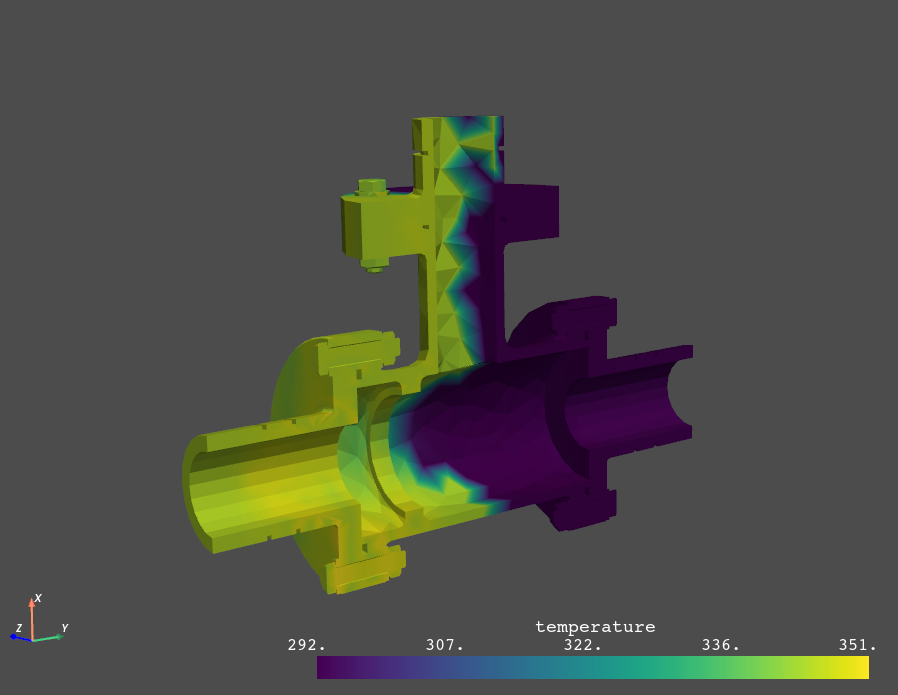
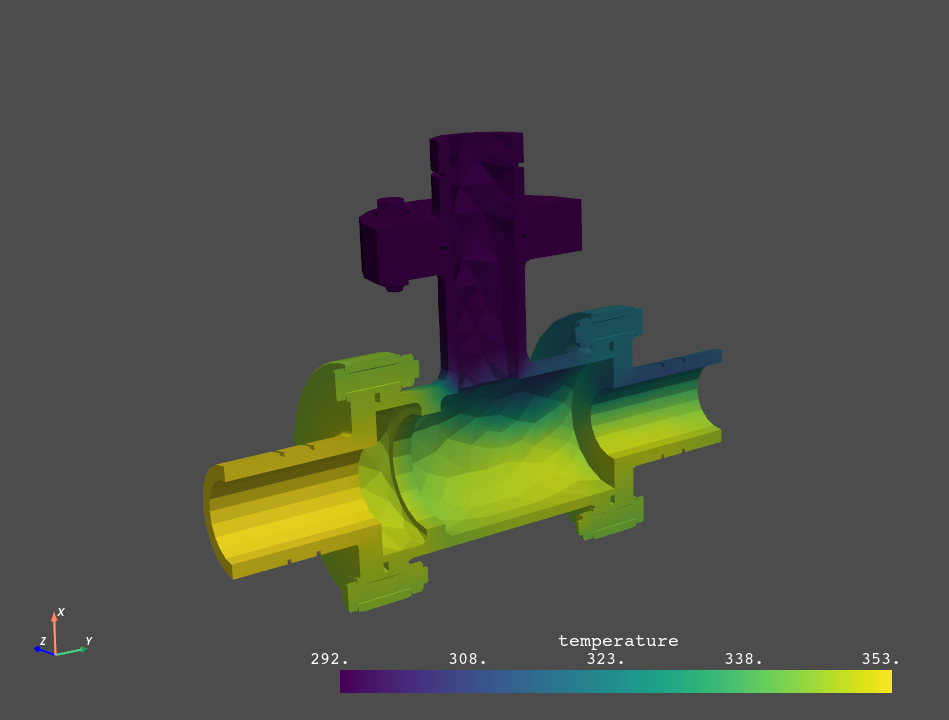
Completing TBROM examples and updating doc

Changed region(s): [[0.1871, 0.1511, 0.7795, 0.8763], [0.3118, 0.8763, 0.9666, 0.9971], [0.0, 0.846, 0.0935, 0.9367]]

diff --git a/examples/evaluate/04-TBROM_images.py b/examples/evaluate/04-TBROM_images.py
@@ -5,7 +5,9 @@ TBROM example for images generation
 
 This example shows how PyTwin can be used to load and evaluate a Twin model in order to visualize ROM results in
 the form of images with predefined views. The script takes user inputs to evaluate the ROM and will display the
-corresponding images.
+corresponding image. A first image is generated using the point cloud based ROM Viewer embedded in the Ansys Digital
+Twin Runtime, and a second image is generated by loading the ROM results and performing the post processing on the
+CFD mesh within Fluent.
 """
 
 # sphinx_gallery_thumbnail_path = '_static/TBROM_images_generation.png'
@@ -14,14 +16,17 @@ corresponding images.
 # Import all necessary modules
 # ~~~~~~~~~~~~~~~~~~~~~~~~~~~~
 import os
+import struct
+
 import matplotlib.pyplot as plt
 import matplotlib.image as img
+import ansys.fluent.core as pyfluent
 
 from pytwin import TwinModel
 from pytwin import examples
-from pytwin import get_pytwin_working_dir
 
 twin_file = examples.download_file("ThermalTBROM_23R1_other.twin", "twin_files")
+cfd_file = examples.download_file("T_Junction.cas.h5", "other_files")
 
 
 ###############################################################################
@@ -30,7 +35,45 @@ twin_file = examples.download_file("ThermalTBROM_23R1_other.twin", "twin_files")
 # Defining user inputs
 
 rom_inputs = {"main_inlet_temperature": 353.15, "side_inlet_temperature": 293.15}
-rom_parameters = {"ThermalROM23R1_1_colorbar_min": 290, "ThermalROM23R1_1_colorbar_max": 360}
+rom_parameters = {"ThermalROM23R1_1_colorbar_min": 290, "ThermalROM23R1_1_colorbar_max": 360, "ThermalROM23R1_1_store_snapshots": 1}
+
+###############################################################################
+# Auxiliary functions definition
+# ~~~~~~~~~~~~~~~~~~~~~~~~~~~~~~
+# Conversion of ROM snapshot for data mapping on CFD mesh.
+
+def snapshot_to_cfd(snapshot_file, geometry_file, field_name, outputFilePath):
+    """Create a Fluent Interpolation file that can be loaded in Fluent and map to the CFD mesh
+    """
+
+    with open(geometry_file, 'rb') as geo, open(snapshot_file, "rb") as snp:
+        nb = struct.unpack('Q', snp.read(8))[0]
+        struct.unpack('Q', geo.read(8))[0]
+        res_list = []
+        for i in range(nb):
+            res_line = []
+            res_line.append(struct.unpack('d', geo.read(8))[0])
+            res_line.append(struct.unpack('d', geo.read(8))[0])
+            res_line.append(struct.unpack('d', geo.read(8))[0])
+            res_line.append(struct.unpack('d', snp.read(8))[0])
+            res_list.append(res_line)
+
+    with open(outputFilePath, 'w') as ipfile:
+        ipfile.write("3\n") # IP file format
+        ipfile.write("3\n") # 2D or 3D - 3D for now
+        ipfile.write(str(len(res_list))+"\n") # number of data
+        #ipfile.write(str(len(field_name))+"\n") # number of field data
+        #for i in range(0,len(field_name)):
+        #    ipfile.write(field_name[i]+"\n") # individual field data name
+        ipfile.write("1\n")  # number of field data
+        ipfile.write(field_name+"\n")  # number of field data
+        for j in range(0, len(res_list[0])):
+            ipfile.write("(")
+            for i in range(0, len(res_list)):
+                ipfile.write(str(res_list[i][j])+"\n")
+            ipfile.write(")\n")
+
+    return outputFilePath
 
 ###############################################################################
 # Loading the Twin Runtime and generate the temperature results from the TBROM
@@ -51,11 +94,33 @@ for model_name, data in visualization_info.items():
 
 twin_model._initialize_evaluation(inputs=rom_inputs, parameters=rom_parameters)
 
+snapshot = os.path.join(directory_path, rom_name, 'snapshot_0.000000.bin')
+geometry = os.path.join(twin_model._twin_runtime.twin_get_rom_resource_directory(rom_name),
+                        'binaryOutputField', 'points.bin')
+
+temperature_file = snapshot_to_cfd(snapshot, geometry, "temperature",
+                                   os.path.join(directory_path, rom_name, "cfd_file.ip"))
+
 ###############################################################################
-# Post-processing
-# ~~~~~~~~~~~~~~~
+# Post-processing with image generated by point cloud based ROM Viewer
+# ~~~~~~~~~~~~~~~~~~~~~~~~~~~~~~~~~~~~~~~~~~~~~~~~~~~~~~~~~~~~~~~~~~~~~
 
 image = img.imread(os.path.join(directory_path, rom_name, 'View1_0.000000.png'))
 plt.imshow(image)
 plt.show()
 
+###############################################################################
+# Post-processing with image generated by Fluent
+# ~~~~~~~~~~~~~~~~~~~~~~~~~~~~~~~~~~~~~~~~~~~~~~
+
+solver = pyfluent.launch_fluent(precision="double", processor_count=2, mode="solver")
+solver.file.read(file_type="case", file_name=cfd_file)
+tui = solver.tui
+tui.file.interpolate.read_data(temperature_file)
+tui.display.objects.display("contour-1")
+tui.display.save_picture(os.path.join(directory_path, rom_name,"View1_Fluent_0.000000.png"))
+solver.exit()
+
+image = img.imread(os.path.join(directory_path, rom_name, "View1_Fluent_0.000000.png"))
+plt.imshow(image)
+plt.show()

diff --git a/examples/evaluate/05-TBROM_coSimulation_pyMAPDL.py b/examples/evaluate/05-TBROM_coSimulation_pyMAPDL.py
@@ -30,7 +30,6 @@ import pyvista as pv
 from ansys.mapdl.core import launch_mapdl
 from pytwin import TwinModel
 from pytwin import examples
-from pytwin import get_pytwin_working_dir
 
 twin_file = examples.download_file("ThermalTBROM_23R1_other.twin", "twin_files")
 fea_file = examples.download_file("ThermalTBROM.dat", "other_files")
@@ -50,13 +49,14 @@ rom_parameters = {"ThermalROM23R1_1_store_snapshots": 1}
 ###############################################################################
 # Auxiliary functions definition
 # ~~~~~~~~~~~~~~~~~~~~~~~~~~~~~~
-# Post processing for results comparison.
+# Conversion of ROM snapshot for data mapping on FEA mesh.
 
 def snapshot_to_fea(snapshot_file, geometry_file):
     """Create a Pandas Dataframe containing the ROM geometry x, y , z coordinates as well as the snapshot file result
     """
     with open(geometry_file, 'rb') as geo, open(snapshot_file, "rb") as snp:
         nb = struct.unpack('Q', snp.read(8))[0]
+        struct.unpack('Q', geo.read(8))[0]
         res_list = []
         for i in range(nb):
             res_line = []
